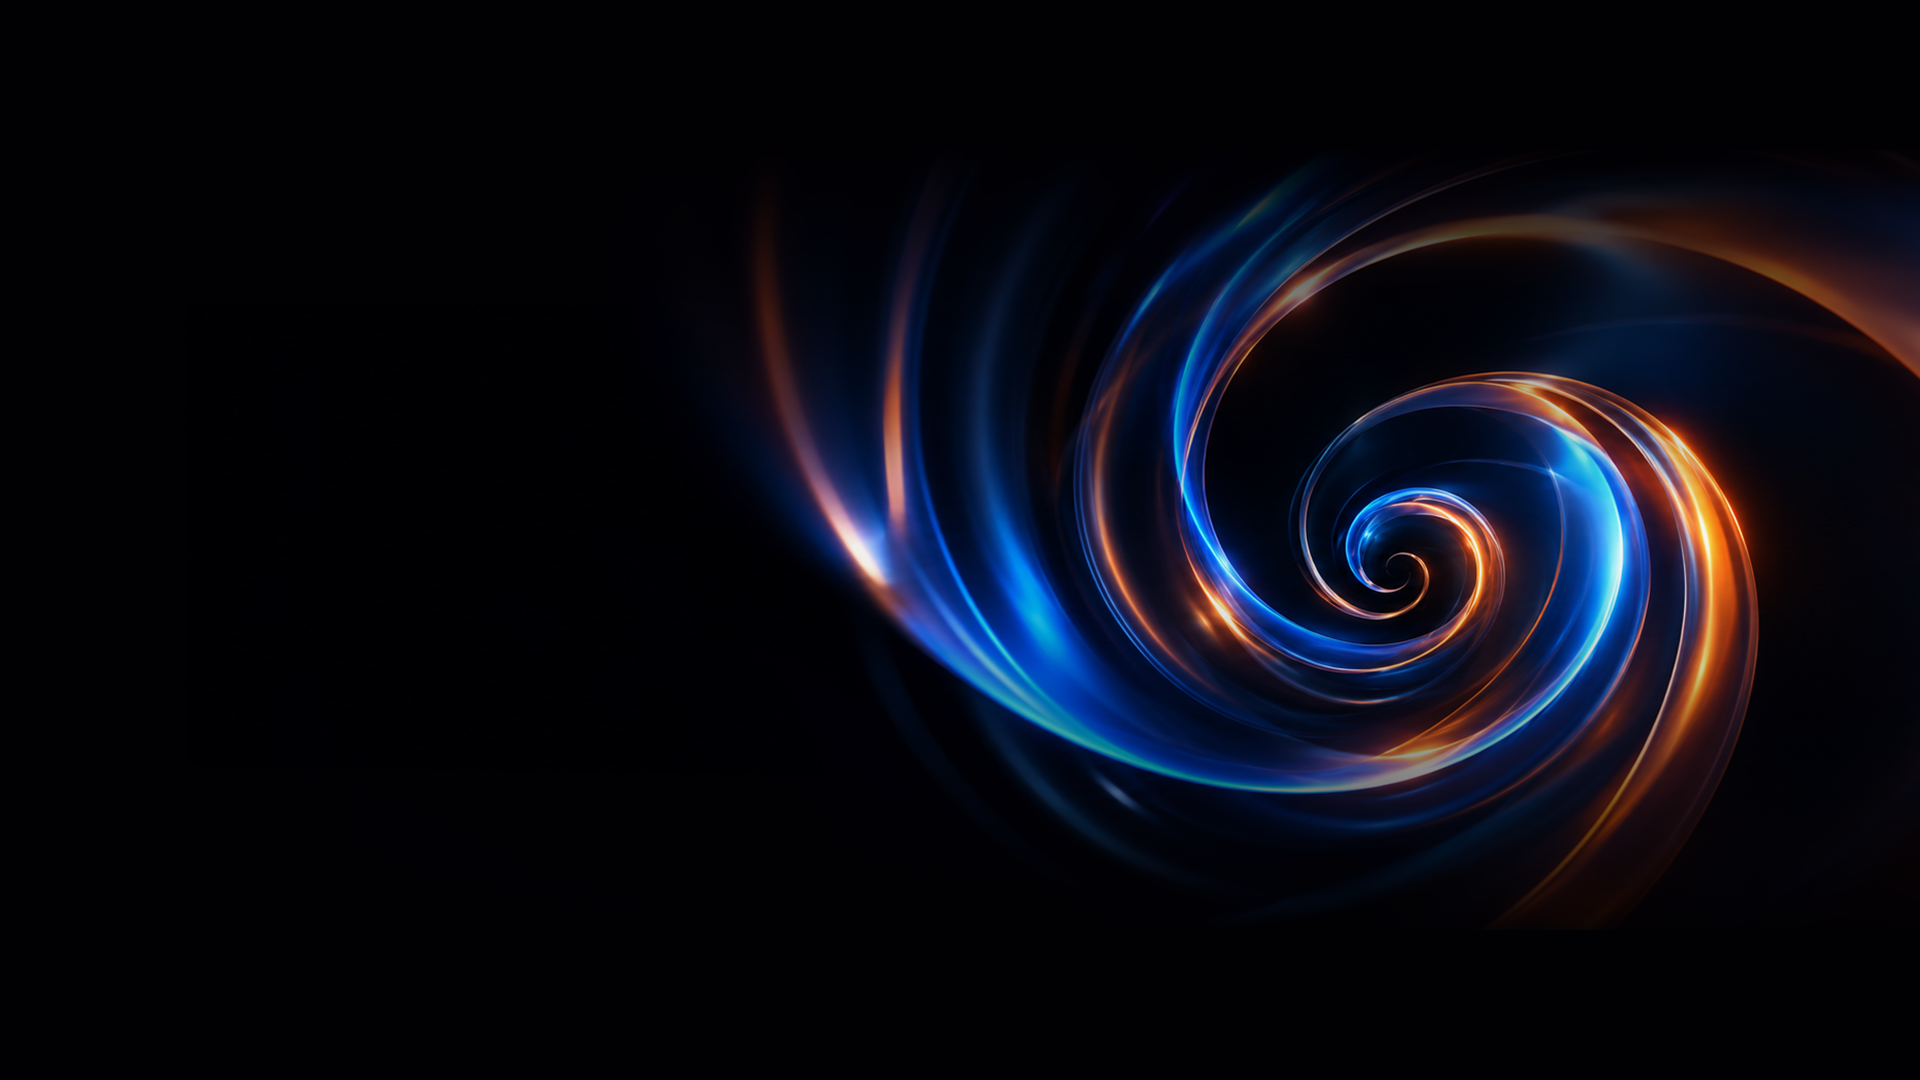
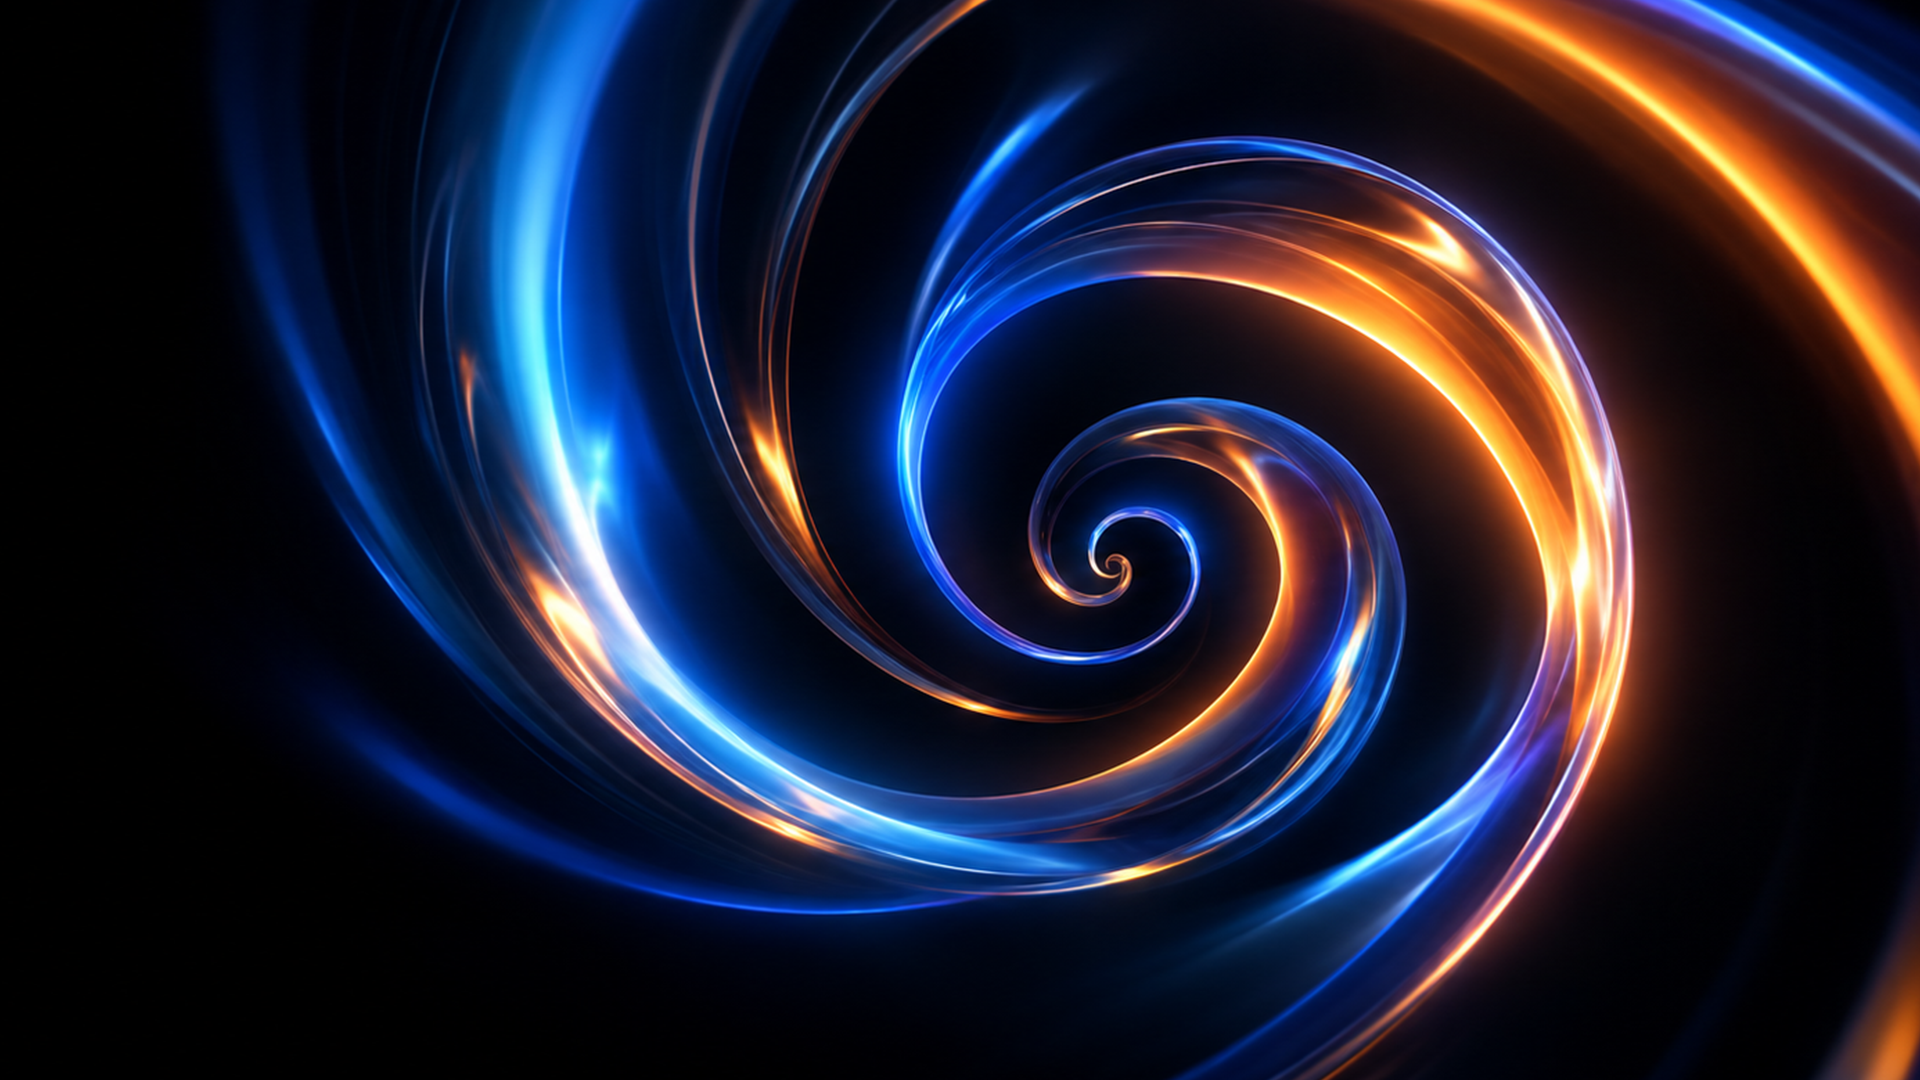
fix(services,autonomous): update swirl image, dim hero bg, fix CRM card link
- Refreshed crm-automation-ai-solutions.png with the replacement swirl
  artwork provided.
- Dimmed the /autonomous hero's wave-mesh background (opacity 0.55 ->
  0.3, plus a dark scrim) so headline and stat text read clearly.
- The "CRM, Automation & AI Solutions" card on the /services index now
  links straight to /autonomous instead of the templated
  /services/autonomous page, matching the homepage card's behavior.

diff --git a/components/autonomous/AutonomousPageContent.tsx b/components/autonomous/AutonomousPageContent.tsx
@@ -1644,11 +1644,18 @@ export function AutonomousPageContent() {
             backgroundImage: "url(/services/autonomous.png)",
             backgroundSize: "cover",
             backgroundPosition: "center",
-            opacity: 0.55,
+            opacity: 0.3,
             maskImage:
               "linear-gradient(180deg, transparent 0%, rgba(0,0,0,0.5) 14%, black 40%, black 72%, transparent 100%)",
             WebkitMaskImage:
               "linear-gradient(180deg, transparent 0%, rgba(0,0,0,0.5) 14%, black 40%, black 72%, transparent 100%)",
+          }}
+        />
+        <div
+          aria-hidden="true"
+          className="absolute inset-0 pointer-events-none"
+          style={{
+            background: "rgba(3,3,5,0.55)",
           }}
         />
         <div

diff --git a/components/services/ServicesPageContent.tsx b/components/services/ServicesPageContent.tsx
@@ -613,7 +613,7 @@ function ServiceRow({ service, flash }: { service: Service; flash?: boolean }) {
   return (
     <Link
       id={`service-${service.num}`}
-      href={`/services/${service.slug}`}
+      href={service.slug === "autonomous" ? "/autonomous" : `/services/${service.slug}`}
       onMouseEnter={() => setHovered(true)}
       onMouseLeave={() => setHovered(false)}
       className="relative flex flex-col sm:flex-row rounded-3xl overflow-hidden"
